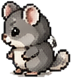
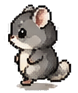
マップの主人公グラフィックを新デザイン「チモ」の歩行ドット絵に変更
進化段階によらず、フィールド上は常に主人公チモの4方向×4コマ歩行アニメーション
(新規ドット絵素材から切り出し)を表示するようにし、戦闘・メニューのなかまカード
のみ進化後の姿を表示する構成にした。設定上は「トレーナーが操作するチモ」という
位置づけとする。

diff --git a/docs/app.js b/docs/app.js
@@ -157,10 +157,8 @@
   }
 
   function renderFieldPlayerSprite() {
-    if (state.stageIndex > 0) {
-      var stage = G.EVOLUTION_ROUTES[state.route].stages[state.stageIndex - 1];
-      return '<img src="' + stage.file + '" alt="' + stage.label + '" style="width:100%;height:100%;object-fit:contain;">';
-    }
+    // マップ上のトレーナー(チモ)の見た目は進化段階によらず常に同じ歩行アニメーションを使う
+    // (進化後の姿は戦闘画面でのみ表示)
     var src = G.HERO_FIELD_SPRITES[state.facing || "down"];
     return '<img src="' + src + '" alt="' + state.name + '" style="width:100%;height:100%;object-fit:contain;">';
   }
@@ -408,19 +406,15 @@
     var inner = playerEl.querySelector(".tile-player-inner");
     if (midStepTimer) { clearTimeout(midStepTimer); midStepTimer = null; }
     if (inner) {
-      if (state.stageIndex > 0) {
-        inner.classList.toggle("facing-left", state.facing === "left");
-      } else {
-        inner.classList.remove("facing-left");
-        var img = inner.querySelector("img");
-        var frames = G.HERO_WALK_FRAMES[state.facing || "down"];
-        if (img) {
-          img.src = frames[heroWalkFrame % frames.length];
-          if (animateStep !== false) {
-            // マスの移動中(スライド中)に2枚目の歩行フレームへ切り替え、足が動いて見えるようにする
-            var nextFrameSrc = frames[(heroWalkFrame + 1) % frames.length];
-            midStepTimer = setTimeout(function () { img.src = nextFrameSrc; }, WALK_STEP_MS / 2);
-          }
+      // マップ上は進化段階によらず常にチモの歩行アニメーションを表示(進化後の姿は戦闘画面のみ)
+      var img = inner.querySelector("img");
+      var frames = G.HERO_WALK_FRAMES[state.facing || "down"];
+      if (img) {
+        img.src = frames[heroWalkFrame % frames.length];
+        if (animateStep !== false) {
+          // マスの移動中(スライド中)に2枚目の歩行フレームへ切り替え、足が動いて見えるようにする
+          var nextFrameSrc = frames[(heroWalkFrame + 1) % frames.length];
+          midStepTimer = setTimeout(function () { img.src = nextFrameSrc; }, WALK_STEP_MS / 2);
         }
       }
     }

diff --git a/docs/style.css b/docs/style.css
@@ -322,7 +322,6 @@ body {
   filter: drop-shadow(0 3px 2px rgba(93, 61, 30, 0.25));
 }
 .tile-player-inner { width: 100%; height: 100%; }
-.tile-player-inner.facing-left { transform: scaleX(-1); }
 .tile-player svg, .tile-player img { width: 100%; height: 100%; }
 .tile-player.step-bounce { animation: step-bounce 0.15s linear; }
 @keyframes step-bounce {

diff --git a/README.md b/README.md
@@ -68,6 +68,10 @@
   一定レベルに達すると なかまも自動で進化する(下記)
 - Lv8で進化ルートを選択(なかよし系/たくましい系)。以降は該当ルートに沿って自動進化し、進化する
   たびに専用のわざを1つ習得する
+- マップ上を歩く姿と戦闘中の姿は別物(2026-07-30〜)。マップは進化段階によらず常に主人公「チモ」の
+  歩行ドット絵(4方向×4コマ、`docs/assets/hero/walk_*.webp`)で、戦闘・メニューのなかまカードは
+  進化後の姿を表示する。設定上は「プレイヤー(トレーナー)が操作するチモが、戦闘では進化後の姿で
+  戦う」という位置づけ
 - メニューの「ずかん」で発見済みモンスターの一覧・ステータスを確認できる(未発見は「？？？」の
   シルエット表示)。野生モンスターと出会う、またはなかまが進化することで自動的に発見済みになる
 - 村のショップできずぐすり・マナのしずくを購入可能
@@ -254,9 +258,9 @@
 - `docs/assets/battlefields/*.webp` : 戦闘背景イラスト(草むら/洞窟/雪原の3種を使用中。
   水辺は今後 対応する水辺マップ追加時のために温存)
 - `docs/assets/hero/hero.webp` : 主人公(無進化時)のバトル用イラスト
-- `docs/assets/hero/walk_*.webp` : 主人公(無進化時)のフィールド移動用ドット絵。下/左/右/上の4方向 ×
-  各4コマの歩行アニメーションで、歩くたびにコマが切り替わる。進化後はこれまで通り進化イラストを
-  使用(左向きは反転表示、アニメーションなし)
+- `docs/assets/hero/walk_*.webp` : 主人公「チモ」のフィールド移動用ドット絵(2026-07-30〜)。下/左/右/上
+  の4方向 × 各4コマの歩行アニメーションで、歩くたびにコマが切り替わる。進化段階によらずマップでは
+  常にこのドット絵を使用し、戦闘・メニューのなかまカードでのみ進化後のイラストに切り替わる
 - `docs/assets/items/*.webp` : どうぐ・お金のアイコン(HUD/メニュー/ショップ/戦闘で使用)
 - `docs/assets/npc/npc_herbalist.webp` : 村の追加NPC「くすし」
 - `docs/assets/tiles/deco_well.webp` : 村の井戸(装飾、当たり判定なし)
